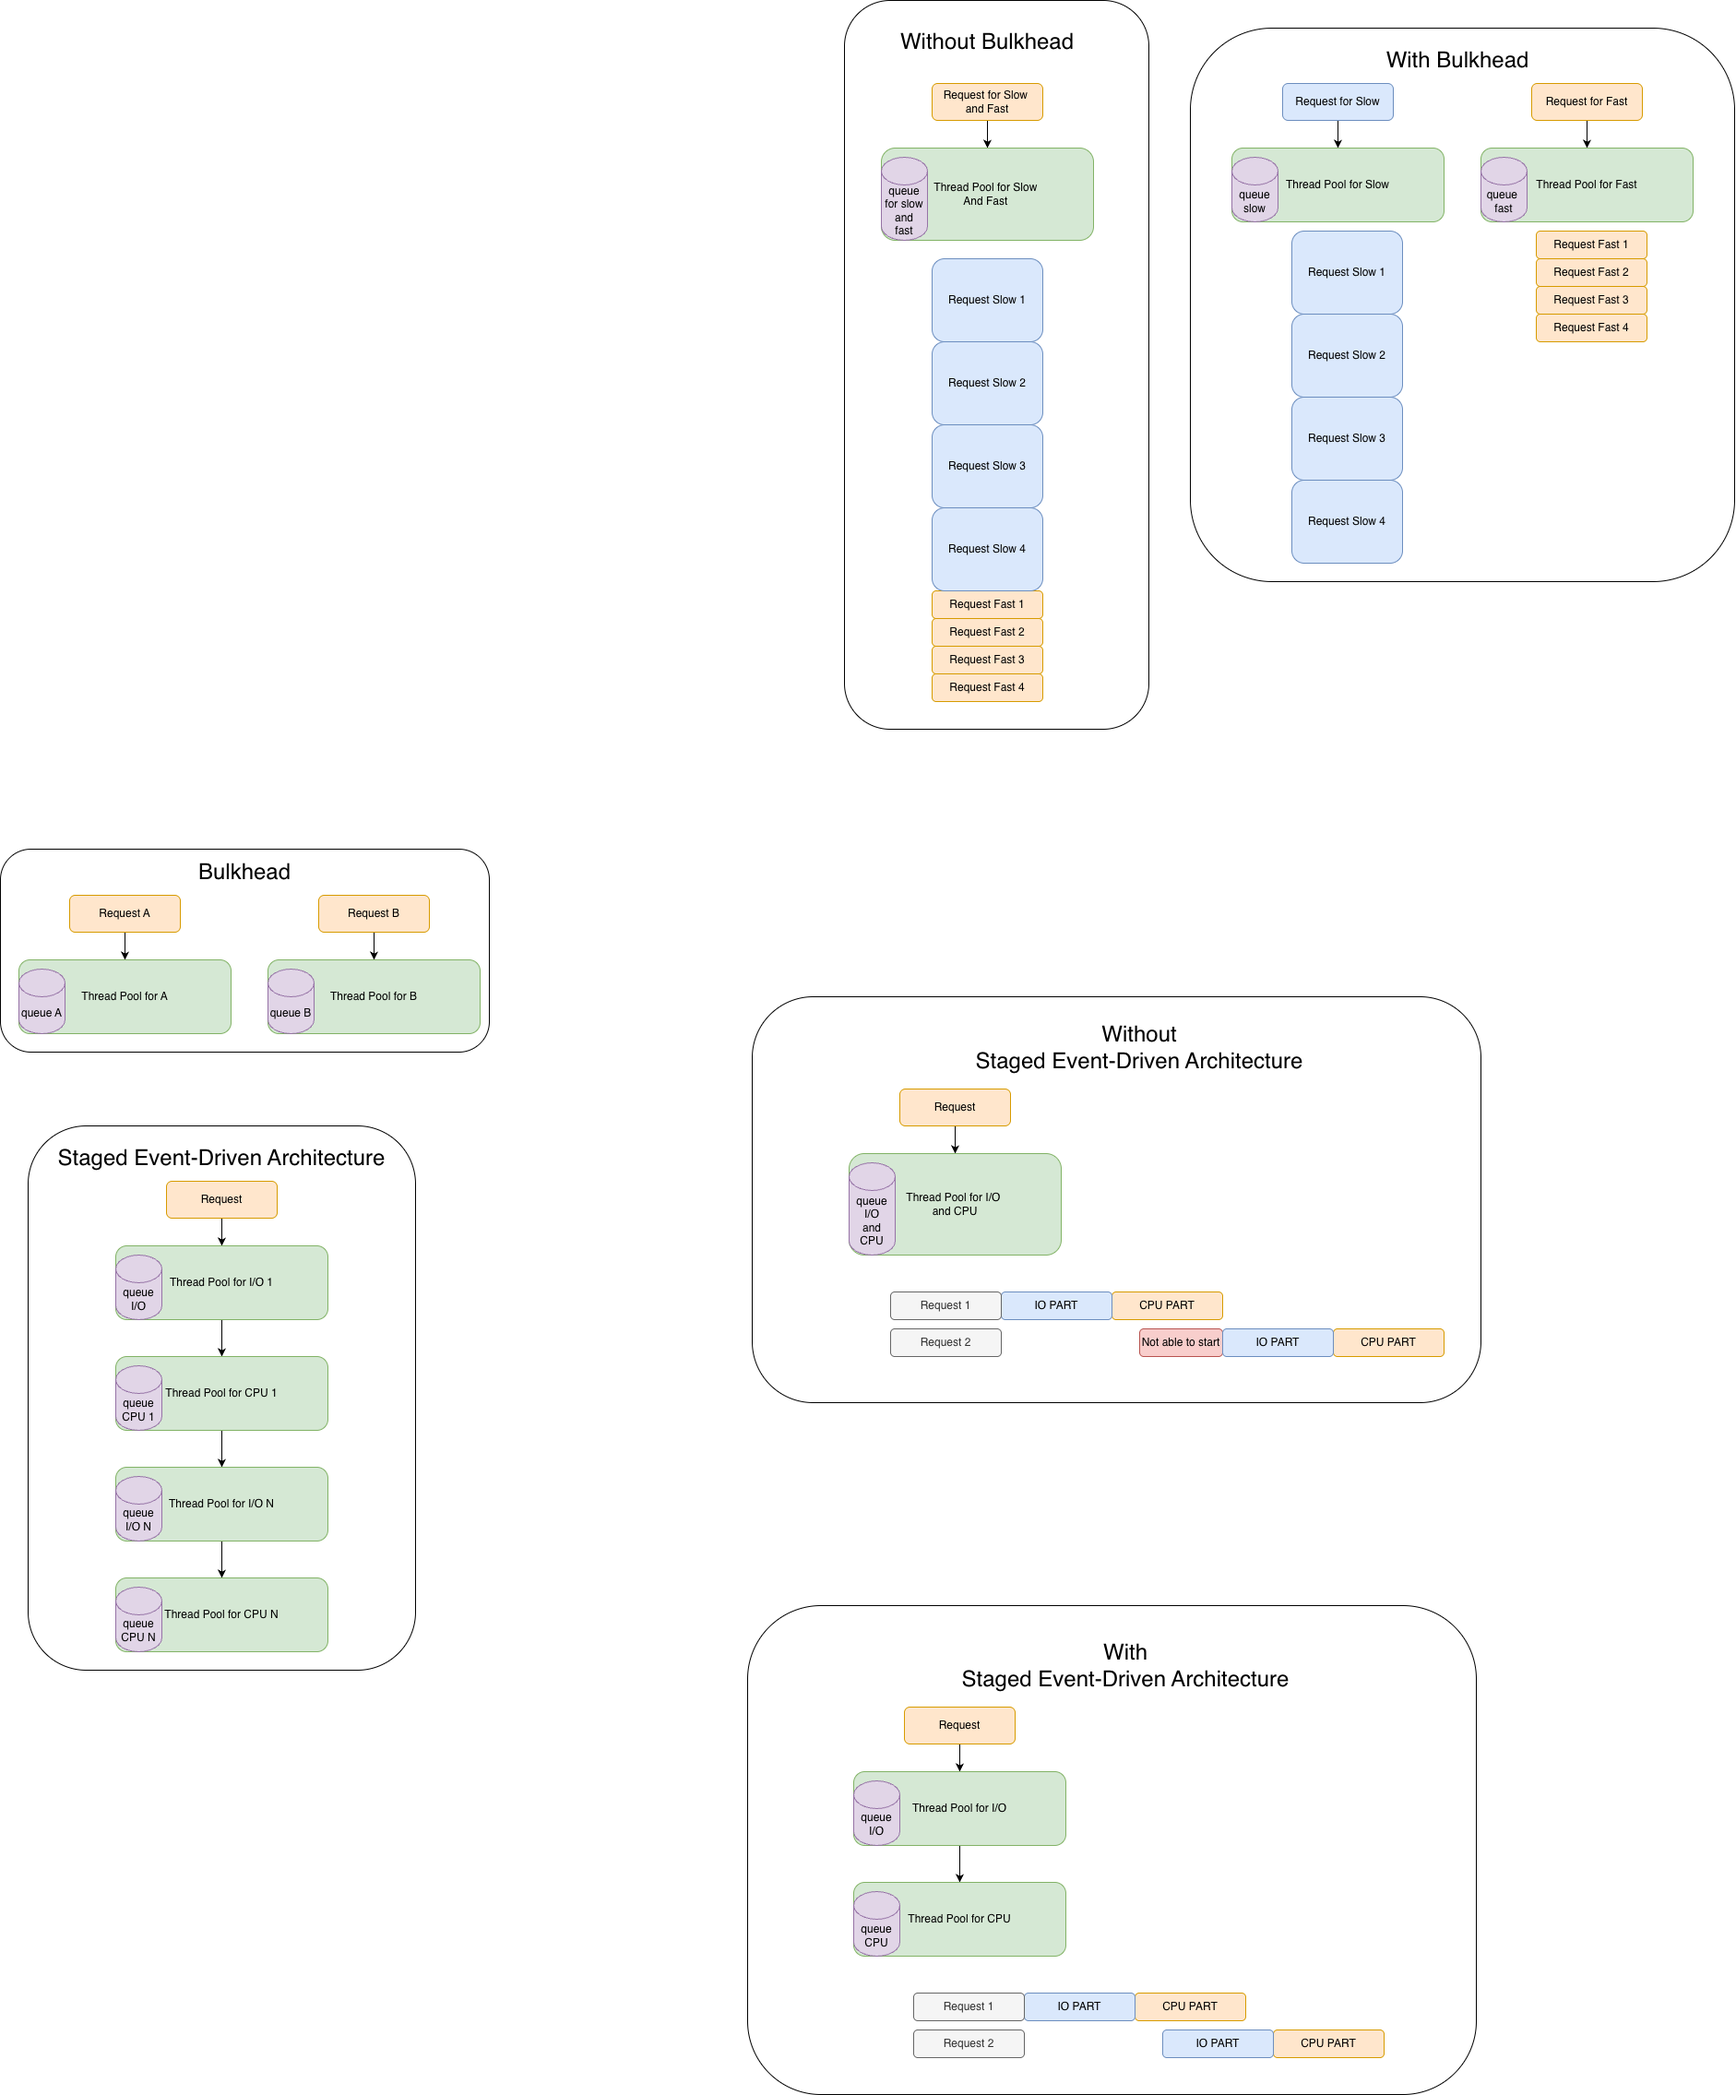
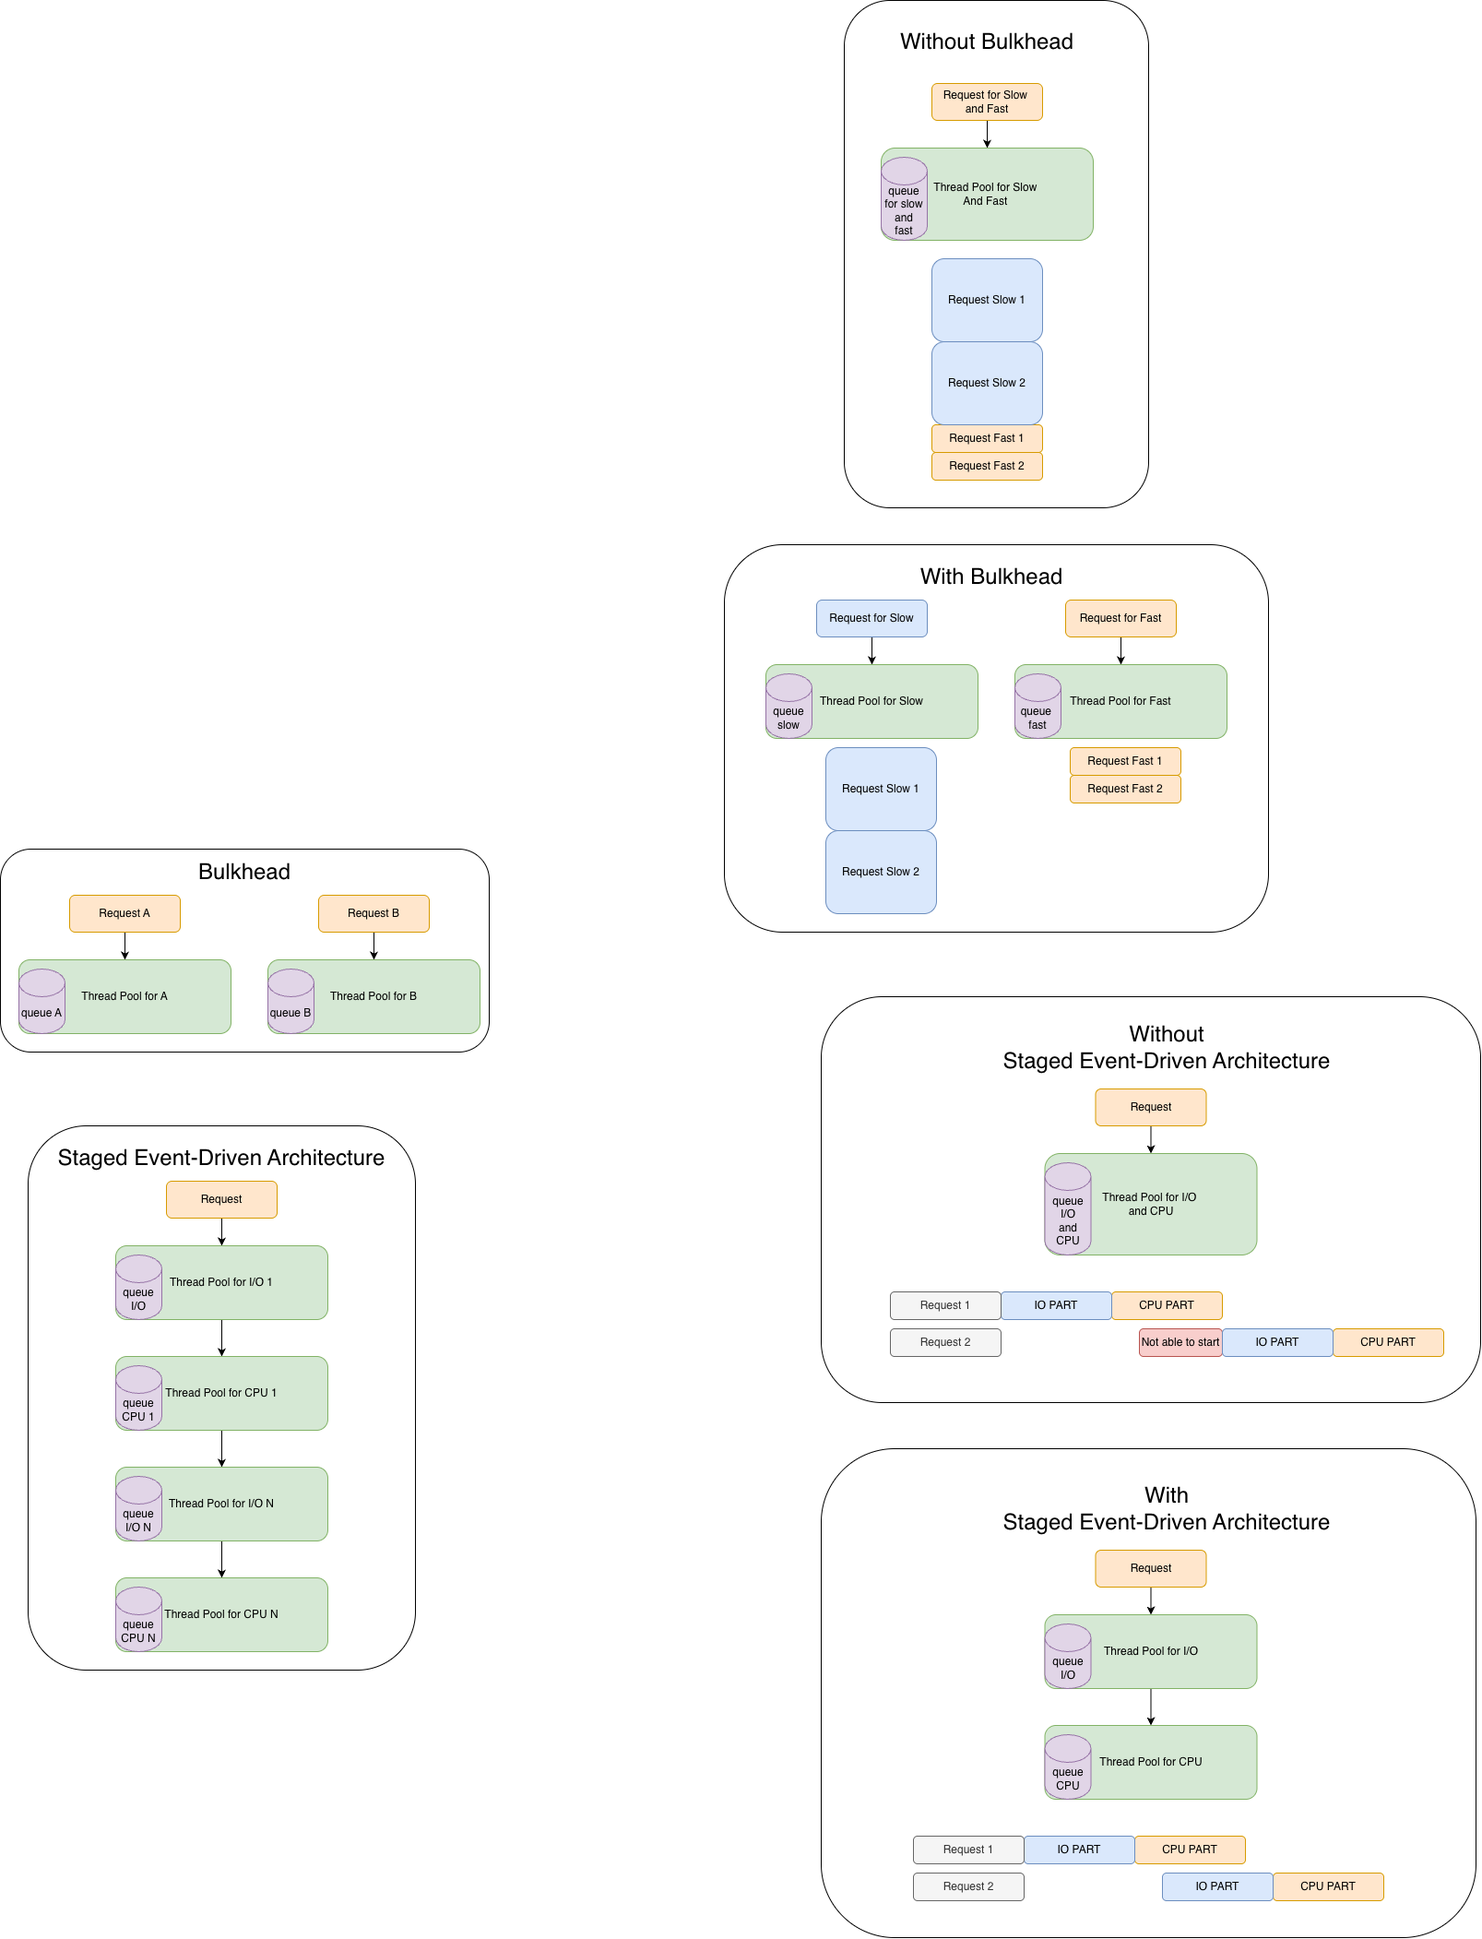
add more explanation in seda and bulkhead, also add chart with cpu usage

diff --git a/presentation-blog-examples/src/main/kotlin/com/nalepa/demo/example09/Example09_Monitored_BLOCKING_IO_vs_CPU_BOUND_IN_EXECUTOR.kt b/presentation-blog-examples/src/main/kotlin/com/nalepa/demo/example09/Example09_Monitored_BLOCKING_IO_vs_CPU_BOUND_IN_EXECUTOR.kt
@@ -23,8 +23,8 @@ fun main() {
 
     repeat(10_000) { index ->
         futures.add(
-//            executor.submit(MonitoredRunnable { simulateBlockingIO(index) })
-            executor.submit(MonitoredRunnable { simulateCpuCode(index) })
+            executor.submit(MonitoredRunnable { simulateBlockingIO(index) })
+//            executor.submit(MonitoredRunnable { simulateCpuCode(index) })
         )
     }
 

diff --git a/README.md b/README.md
@@ -191,6 +191,8 @@ For any other library... it's probably the same 😄
 
 Check [ThreadsPerformanceTest](apps/different-endpoints/webmvc-classic-threads/src/test/kotlin/com/nalepa/demo/common/ThreadsPerformanceTest.kt)
 
+![cpu-usage.png](images/cpu-usage.png)
+
 # How to measure queue wait time
 
 In order to measure queue wait time (and more) use :
@@ -236,6 +238,16 @@ What can happen under high load?
   - or all threads are doing CPU
   - other things
 
+# A little bit slower way to reduce response times
+
+There are two patterns that can be used to reduce response times, when queue wait time is high:
+- bulkhead pattern
+  - it protects resources
+  ![bulkhead.png](images/bulkhead.png)
+- Staged Event-Driven Architecture (SEDA)
+  - it makes resources faster
+  ![seda.png](images/seda.png)
+
 # Presentation / Blog examples
 
 Start with the module [presentation-blog-examples](presentation-blog-examples/src/main/kotlin/com/nalepa/demo)
@@ -255,13 +267,11 @@ There are two different types of examples:
     - bulkhead pattern is used
     - it protects resources
     - check [spring-examples/bulkhead module](spring-examples/apps/bulkhead/readme-bulkhead.md)
-  ![bulkhead.png](images/bulkhead.png)
 
 - applications with only one endpoint, but under the hood, http-client is called
     - Staged Event-Driven Architecture (SEDA) is used
     - it makes resources faster
     - check [spring-examples/seda module](spring-examples/apps/seda/readme-seda.md)
-    ![seda.png](images/seda.png)
 
 `Nalepa TODO`: Make sure that data in module readme files are valid
 
